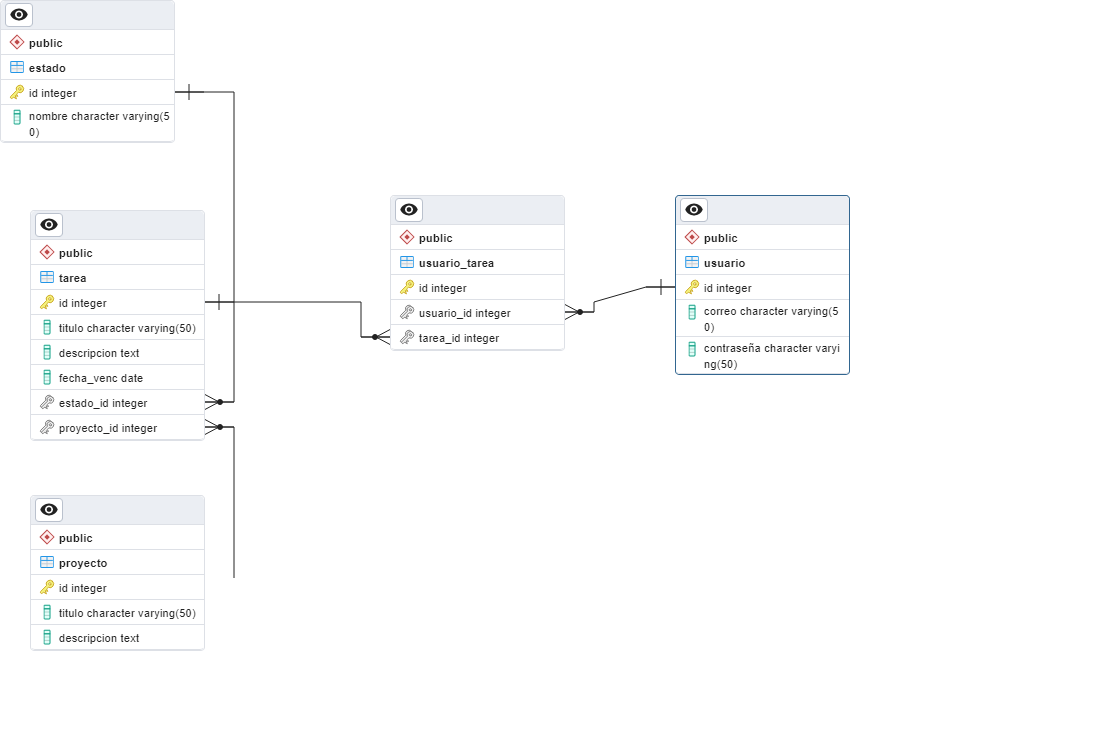
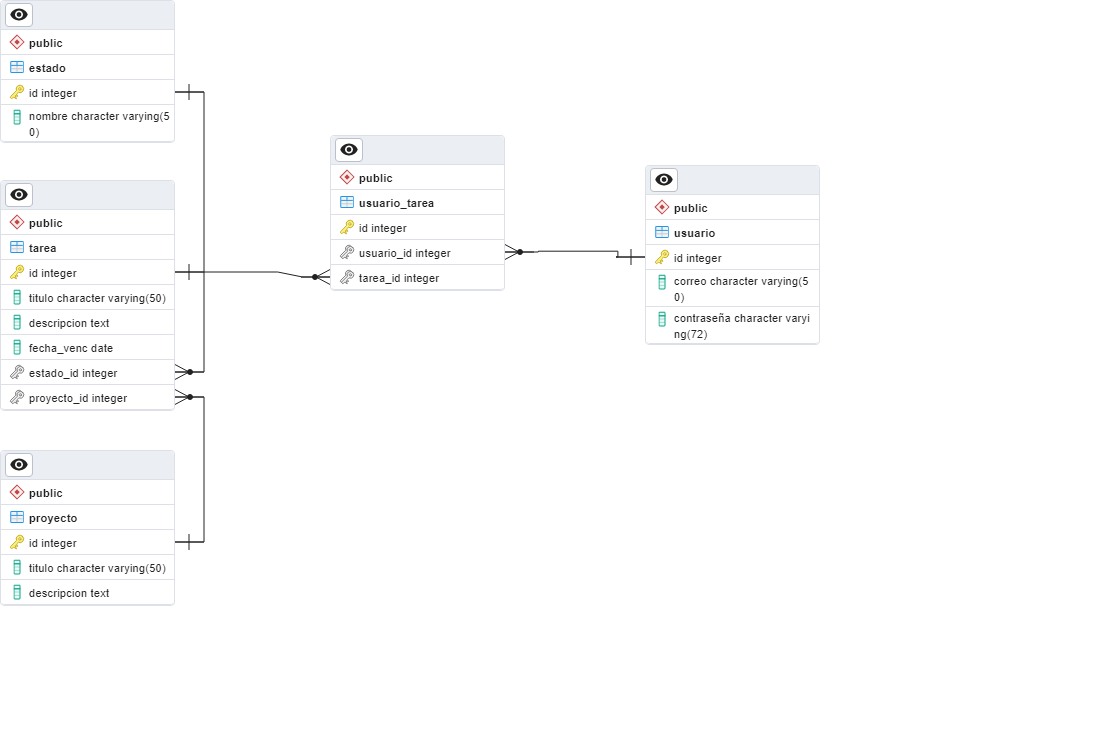
cambios

diff --git a/backend/app.py b/backend/app.py
@@ -3,12 +3,18 @@
 # instalaciones requeridas en entorno virtual:
 # pip install flask flask_sqlalchemy flask_cors
 # pip install psycopg2
+# pip install bcrypt
 
 # Imports
 from flask import Flask, request, jsonify
 from flask_sqlalchemy import SQLAlchemy
 from flask_cors import CORS
 from models import Usuario, Tarea, Estado, Proyecto, UsuarioTarea, db
+import bcrypt
+
+
+# estados para insertar en caso de no existir
+lista_estados = ["pendiente","en progreso","completada"]
 
 # App
 app = Flask(__name__)
@@ -19,6 +25,21 @@ app.config['SQLALCHEMY_DATABASE_URI'] = 'postgresql://postgres:password@localhos
 
 # Init db
 db.init_app(app)
+
+# Agregar datos iniciales
+with app.app_context():
+    # Crear estados si no existen
+    for estado in lista_estados:
+        if not Estado.query.filter_by(nombre=estado).first():
+            db.session.add(Estado(estado))
+            db.session.commit()
+    # Crear primer usuario si no existe
+    if not Usuario.query.filter_by(correo="admin@admin.com").first():
+        salt = bcrypt.gensalt()
+        hashed = bcrypt.hashpw("admin".encode('utf-8'), salt)
+        db.session.add(Usuario("admin@admin.com",hashed.decode('utf-8')))
+        db.session.commit()
+
 
 # Ruta de prueba, verificar que estén los estados:
 #  1: pendiente, 2: en progreso, 3: completada
@@ -44,7 +65,8 @@ def get_usuario_by_id(id):
 @app.route('/api/usuarios', methods=['POST'])
 def create_usuario():
     data = request.get_json()
-    usuario = Usuario(data['correo'],data['contraseña'])
+    hashed = bcrypt.hashpw(data['contraseña'].encode('utf-8'), bcrypt.gensalt())
+    usuario = Usuario(data['correo'],hashed.decode('utf-8'))
     db.session.add(usuario)
     db.session.commit()
     return jsonify({'message':'Usuario creado'})
@@ -100,6 +122,13 @@ def update_tarea(id):
     db.session.commit()
     return jsonify({'message':'Tarea actualizada'})
 
+@app.route('/api/tareas/<id>_ok',methods=['PUT'])
+def update_tarea_ok(id):
+    tarea = Tarea.query.get(id)
+    tarea.estado_id = 3
+    db.session.commit()
+    return jsonify({'message':'Tarea actualizada: completada'})
+
 # Modulo de proyectos
 @app.route('/api/proyectos',methods=['GET'])
 def get_proyectos():
@@ -116,7 +145,7 @@ def get_proyecto_by_id(id):
 @app.route('/api/proyectos', methods=['POST'])
 def create_proyecto():
     data = request.get_json()
-    proyecto = Proyecto(data['nombre'],data['descripcion'])
+    proyecto = Proyecto(data['titulo'],data['descripcion'])
     db.session.add(proyecto)
     db.session.commit()
     return jsonify({'message':'Proyecto creado'})
@@ -136,7 +165,7 @@ def delete_proyecto(id):
 def update_proyecto(id):
     data = request.get_json()
     proyecto = Proyecto.query.get(id)
-    proyecto.nombre = data['nombre']
+    proyecto.nombre = data['titulo']
     proyecto.descripcion = data['descripcion']
     db.session.commit()
     return jsonify({'message':'Proyecto actualizado'})
@@ -147,6 +176,13 @@ def get_usuarios_tareas():
     usuarios_tareas = UsuarioTarea.query.all()
     usuarios_tareas_json = [usuario_tarea.to_JSON() for usuario_tarea in usuarios_tareas]
     return jsonify(usuarios_tareas_json)
+
+@app.route('/api/usuarios_tareas/<usuario_id>',methods=['GET'])
+def get_usuarios_tareas_by_usuario_id(usuario_id):
+    usuarios_tareas = UsuarioTarea.query.filter_by(usuario_id=usuario_id).all()
+    usuarios_tareas_json = [usuario_tarea.to_JSON() for usuario_tarea in usuarios_tareas]
+    return jsonify(usuarios_tareas_json)
+
 
 @app.route('/api/usuarios_tareas', methods=['POST'])
 def create_usuario_tarea():

diff --git a/backend/models.py b/backend/models.py
@@ -10,7 +10,7 @@ class Usuario(db.Model):
     __tablename__ = 'usuario'
     id = db.Column(db.Integer,primary_key=True)
     correo = db.Column(db.String(50),nullable=False)
-    contraseña = db.Column(db.String(50),nullable=True)
+    contraseña = db.Column(db.String(72),nullable=True)
     
     def __init__(self,correo,contraseña):
         self.correo=correo
